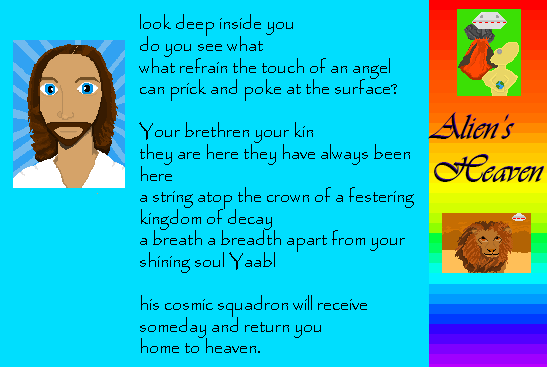
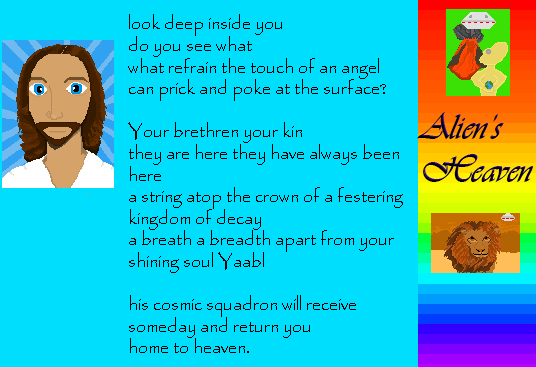
moved website to fix scrollbar

Changed region(s): [[0.0, 0.0, 0.9851, 0.7493], [0.2388, 0.8093, 0.6866, 0.9591], [0.7761, 0.7793, 0.806, 1.0]]

diff --git a/src/scene/play.js b/src/scene/play.js
@@ -398,8 +398,8 @@ class play extends Phaser.Scene {
         this.webpage1_3_2 = this.add.sprite(77, 144, 'webpage1_3.2').setOrigin(0, 0);
         this.link1_3 = new clickable(this, 80, 320, 'link1_3').setOrigin(0, 0);
         this.web1_3close = new clickable(this, 625, 104, 'close_button').setScale(.8);
-        this.scrollbar_bottom = this.add.sprite(619, 144, 'scrollbar_bottom').setOrigin(0, 0);
-        this.scrollbar_top = this.add.sprite(619, 144, 'scrollbar_top').setOrigin(0, 0);
+        this.scrollbar_bottom = this.add.sprite(613, 144, 'scrollbar_bottom').setOrigin(0, 0);
+        this.scrollbar_top = this.add.sprite(613, 144, 'scrollbar_top').setOrigin(0, 0);
         this.url1_3 = this.add.text(152, 127, "http://www.aliens-heaven.org", textStyle).setOrigin(0, 0);
         this.path1_3.add([this.webpageUI1_3, this.webpage1_3_2, this.link1_3, this.webpage1_3_1, this.web1_3close, this.scrollbar_bottom,  this.scrollbar_top, this.url1_3]);
 
